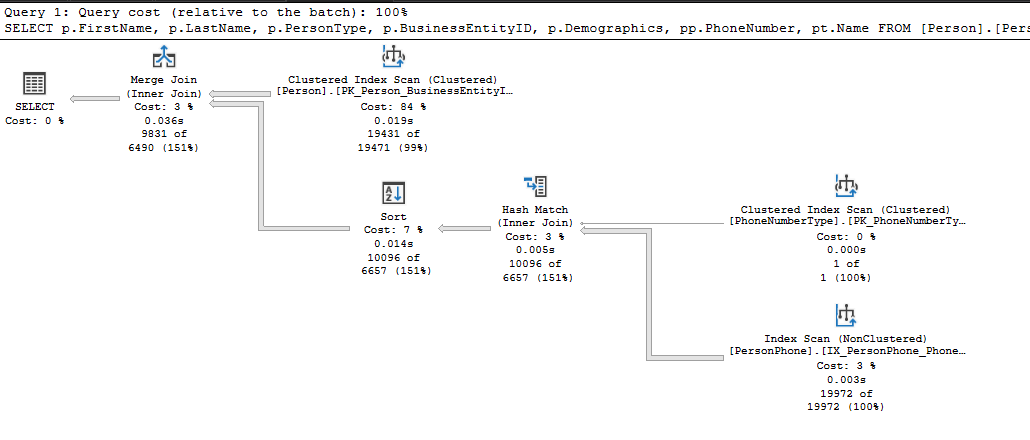
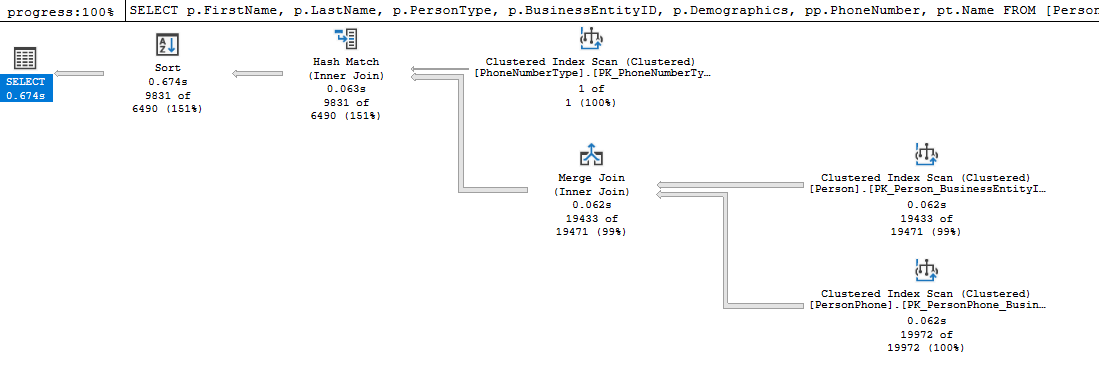
modified:   images-diagrams/Query1.png new file:   images-diagrams/Query2.png modified:   notes/sql-notes/sql-tuning-examples.md

Changed region(s): [[0.0, 0.0, 1.0, 0.9514]]

diff --git a/notes/sql-notes/sql-tuning-examples.md b/notes/sql-notes/sql-tuning-examples.md
@@ -27,11 +27,41 @@ INNER JOIN [Person].[PhoneNumberType] pt ON pp.PhoneNumberTypeID = pt.PhoneNumbe
 WHERE pt.Name LIKE 'Cell'
 AND p.ModifiedDate >= '2010-01-01 00:00:00.000'
 AND LastName NOT LIKE 'Adams'
-ORDER BY p.BusinessEntityID ASC
+ORDER BY p.FirstNAME ASC
 ```
 The executions times and query plan, before tuning, are below:
 
  SQL Server Execution Times:
-   CPU time = 78 ms,  elapsed time = 789 ms.
+   CPU time = 94 ms,  elapsed time = 836 ms.
 
-[! image](images-diagrams/Query1.png)
+![Image](../../images-diagrams/Query1.png)
+
+1 - Asking for TOP 100 drops time (obviously):  
+SQL Server Execution Times:
+   CPU time = 0 ms,  elapsed time = 143 ms.
+
+Tried creating an Index on Person.Person.FirstName including all columns in person section of the query. - No effect
+
+Tried creating statistics on FirstName to see if this effected use of Index - No effect
+
+***Finding this difficult will return to this query***
+
+## Query 2 - AdventureWorks2022
+
+This query contains the following:
+- A where clause with leading wildcard
+- Order by
+```
+SQL
+
+SELECT TOP (50) p.ProductID, p.Name, p.ListPrice
+FROM Production.Product AS p
+WHERE p.Name LIKE '%mountain%'
+ORDER BY p.ListPrice DESC;
+```
+The execution times and query plan, before tuning, are below:
+
+ SQL Server Execution Times:
+   CPU time = 0 ms,  elapsed time = 101 ms.
+
+![image](../../images-diagrams/Query2.png)
